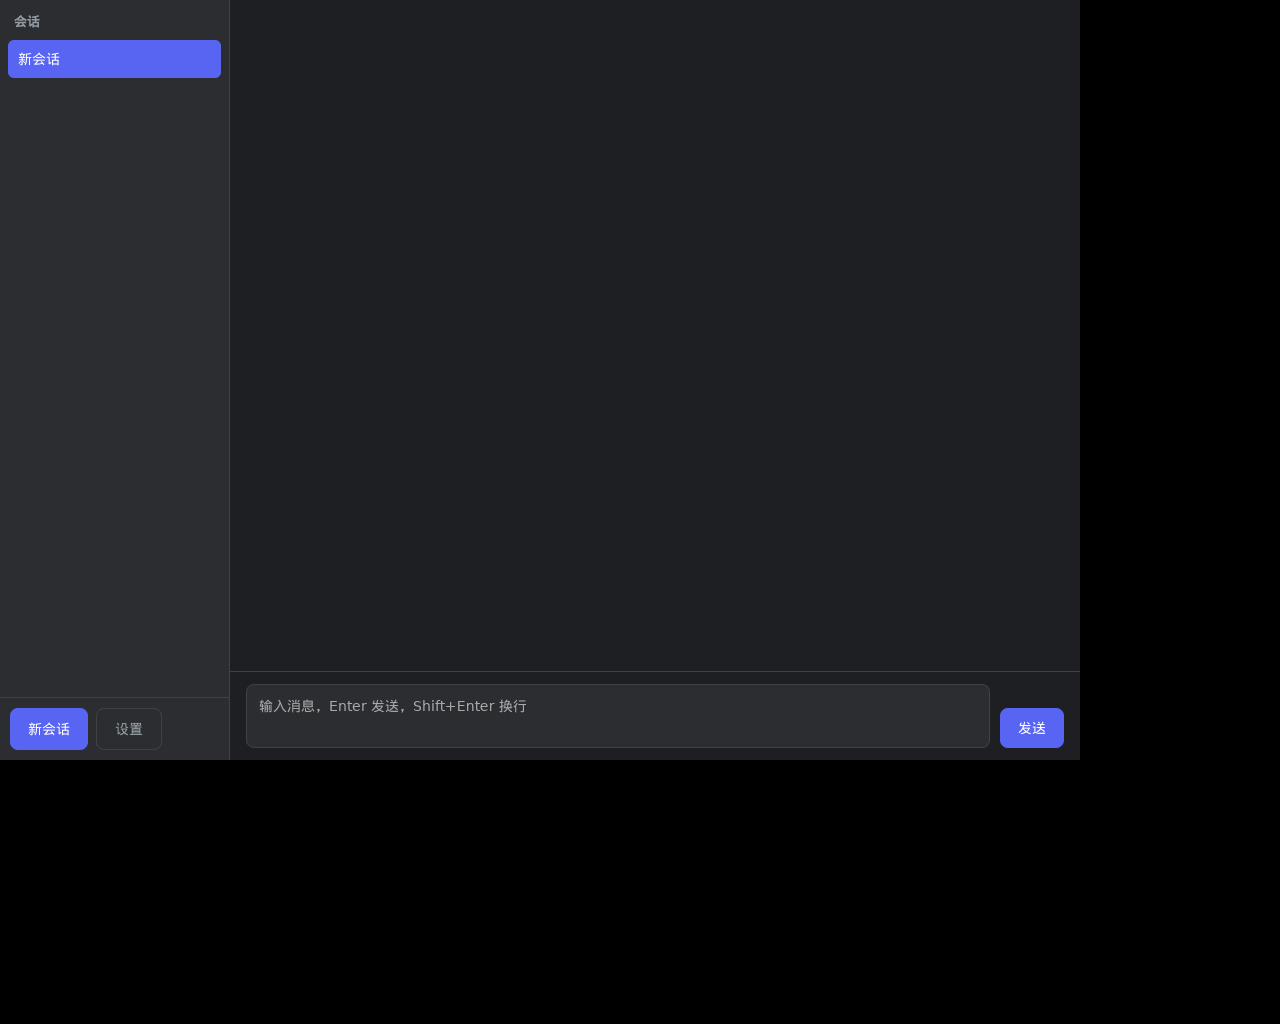
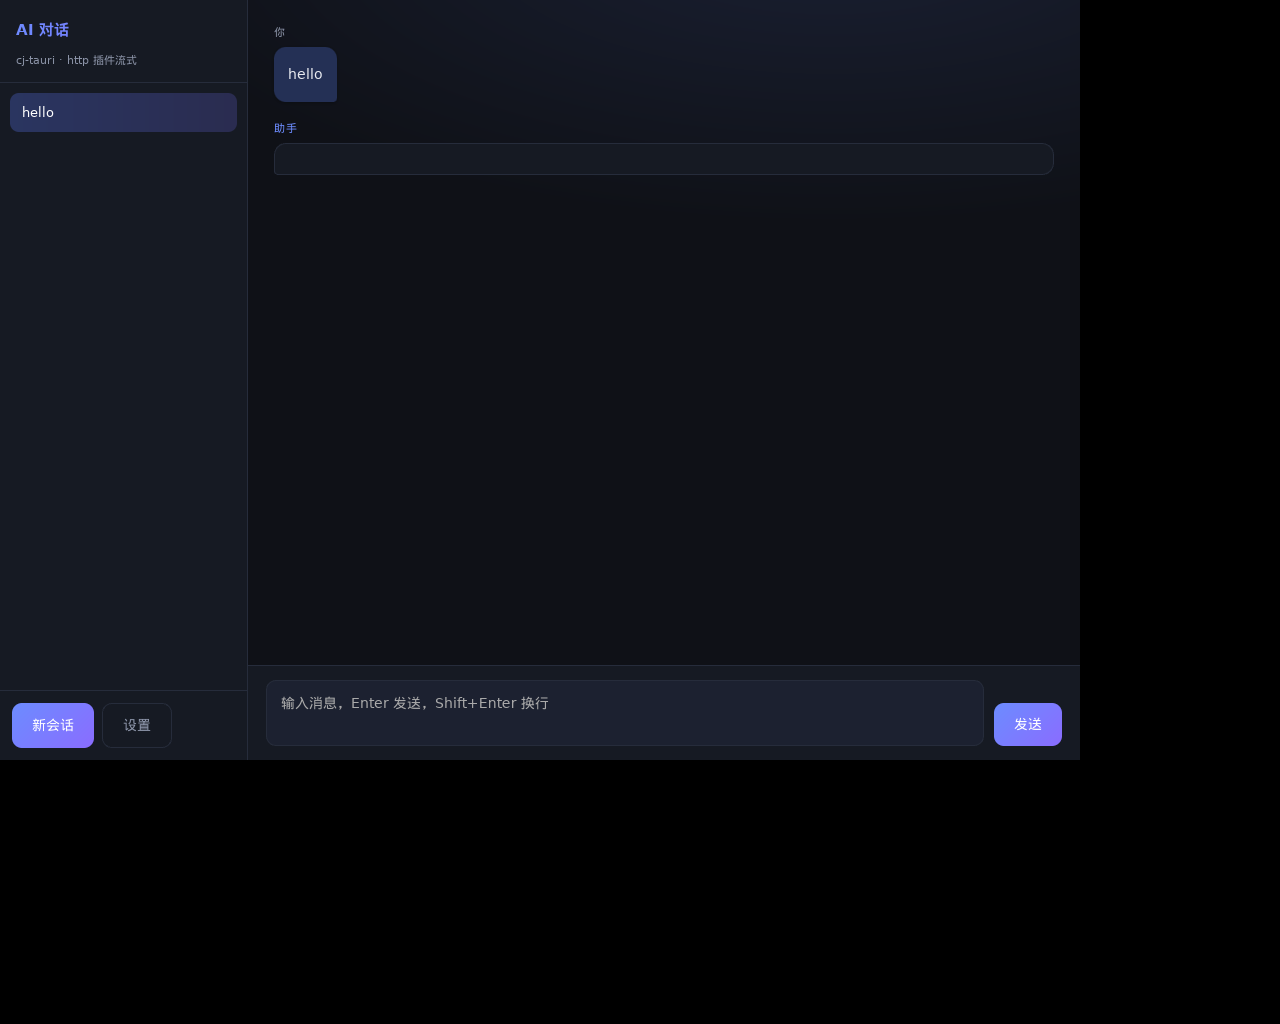
fix: make chat failures visible and stream every chunk
Two defects surfaced when a user pointed the example at a real provider:

- The default DeepSeek endpoint carried a wrong /v1 prefix, and a saved
  base URL pointing at a non-chat endpoint produced an HTTP 404 with no
  SSE data lines - the UI showed an empty reply and nothing else, the
  most expensive failure shape. Empty stream responses now render an
  explicit error bubble with the status, byte count, and the likely fix.
- postStream used emitLatest for http:chunk, which keeps only the newest
  event per frame: intermediate deltas were dropped (chunk counts flapped
  between runs, streamed text lost characters). Stream chunks now use
  emit so every delta arrives.

Also: page self-check gains a real streaming probe (postStream with the
configured key, counting arrived chunks) and counts only assertions in
its x/y summary; UI restyle (brand header, chat bubbles, gradient
buttons, welcome screen); default endpoint corrected to
https://api.deepseek.com/chat/completions.

Verified live on Linux (Xvfb): self-check 9/9 twice in a row, chunks
arriving every time; screenshot updated.

diff --git a/examples/ai-chat/ui/index.html b/examples/ai-chat/ui/index.html
@@ -4,61 +4,98 @@
 <meta charset="UTF-8">
 <title>AI 对话</title>
 <style>
-  :root { --bg:#1e1f22; --panel:#2b2d31; --line:#3f4147; --fg:#e3e5e8; --dim:#949ba4; --acc:#5865f2; }
+  :root {
+    --bg:#0f1117; --panel:#161a23; --panel2:#1c2130; --line:#262c3b;
+    --fg:#e8eaf0; --dim:#8b93a7; --acc:#6c8cff; --acc2:#8a6cff;
+    --user:#243055; --radius:12px;
+  }
   * { margin:0; padding:0; box-sizing:border-box; }
-  body { display:flex; height:100vh; background:var(--bg); color:var(--fg);
-         font:14px/1.6 system-ui,"Segoe UI","Microsoft YaHei",sans-serif; }
-  /* ---- 左栏：会话列表 ---- */
-  #side { width:230px; background:var(--panel); display:flex; flex-direction:column; border-right:1px solid var(--line); flex:0 0 auto; }
-  #side h1 { font-size:13px; padding:12px 14px 8px; color:var(--dim); font-weight:600; }
-  #convList { flex:1 1 auto; overflow-y:auto; padding:0 8px; }
-  .conv { padding:8px 10px; border-radius:6px; cursor:pointer; margin-bottom:2px;
+  html { color-scheme: dark; }
+  body { display:flex; height:100vh; overflow:hidden; background:var(--bg); color:var(--fg);
+         font:14px/1.65 "Segoe UI","PingFang SC","Microsoft YaHei",system-ui,sans-serif; }
+  ::-webkit-scrollbar { width:8px; }
+  ::-webkit-scrollbar-thumb { background:#2c3345; border-radius:4px; }
+  ::-webkit-scrollbar-thumb:hover { background:#3a4258; }
+  /* ---- 左栏 ---- */
+  #side { width:248px; background:var(--panel); display:flex; flex-direction:column;
+          border-right:1px solid var(--line); flex:0 0 auto; }
+  #side .brand { padding:18px 16px 10px; font-size:15px; font-weight:700;
+                 background:linear-gradient(90deg,var(--acc),var(--acc2));
+                 -webkit-background-clip:text; background-clip:text; color:transparent; }
+  #side .sub { padding:0 16px 12px; font-size:11px; color:var(--dim); border-bottom:1px solid var(--line); }
+  #convList { flex:1 1 auto; overflow-y:auto; padding:10px; }
+  .conv { padding:9px 12px; border-radius:9px; cursor:pointer; margin-bottom:3px; font-size:13px;
+          color:var(--dim); transition:background .12s,color .12s;
           white-space:nowrap; overflow:hidden; text-overflow:ellipsis; }
-  .conv:hover { background:#35373c; }
-  .conv.active { background:var(--acc); color:#fff; }
-  .conv .del { float:right; opacity:0; padding:0 4px; }
-  .conv:hover .del { opacity:.7; }
-  #sideBtns { padding:10px; border-top:1px solid var(--line); display:flex; gap:8px; }
+  .conv:hover { background:var(--panel2); color:var(--fg); }
+  .conv.active { background:linear-gradient(90deg,#2a3560,#2a2c50); color:#fff; font-weight:500; }
+  .conv .del { float:right; opacity:0; padding:0 4px; transition:opacity .12s; }
+  .conv:hover .del { opacity:.65; }
+  .conv .del:hover { opacity:1; color:#ff7b72; }
+  #sideBtns { padding:12px; border-top:1px solid var(--line); display:flex; gap:8px; }
   /* ---- 主栏 ---- */
-  #main { flex:1 1 auto; min-width:0; display:flex; flex-direction:column; }
-  #msgs { flex:1 1 auto; overflow-y:auto; padding:18px 22px; }
-  .msg { margin-bottom:14px; max-width:860px; }
-  .msg .who { font-size:12px; color:var(--dim); margin-bottom:3px; }
-  .msg .body { white-space:pre-wrap; }
-  .msg.user .body { background:var(--panel); display:inline-block; padding:8px 12px; border-radius:8px; }
+  #main { flex:1 1 auto; min-width:0; display:flex; flex-direction:column;
+          background:radial-gradient(1200px 500px at 70% -10%, #1a2033 0%, var(--bg) 60%); }
+  #msgs { flex:1 1 auto; overflow-y:auto; padding:24px 26px; }
+  .msg { margin-bottom:18px; max-width:820px; }
+  .msg .who { font-size:11px; letter-spacing:.08em; color:var(--dim); margin-bottom:5px;
+              text-transform:uppercase; }
+  .msg.assistant .who { color:var(--acc); }
+  .msg .body { white-space:pre-wrap; word-break:break-word; }
+  .msg.user .body { background:var(--user); display:inline-block; padding:10px 14px;
+                    border-radius:var(--radius); border-bottom-right-radius:4px;
+                    box-shadow:0 1px 4px rgba(0,0,0,.3); }
+  .msg.assistant .body { background:var(--panel); padding:12px 16px; border-radius:var(--radius);
+                         border-bottom-left-radius:4px; border:1px solid var(--line); }
   .msg.assistant .body .cursor { display:inline-block; width:8px; height:15px;
-        background:var(--fg); vertical-align:-2px; animation:blink .8s step-end infinite; }
+        background:var(--acc); vertical-align:-2px; animation:blink .8s step-end infinite; }
   @keyframes blink { 50% { opacity:0; } }
   .msg .body p { margin:6px 0; }
-  .msg .body pre { background:#16171a; padding:10px 12px; border-radius:6px; overflow-x:auto; margin:8px 0; }
-  .msg .body code { font-family:Consolas,Menlo,monospace; font-size:13px; }
-  .msg .body p code, .msg .body li code { background:#16171a; padding:1px 5px; border-radius:4px; }
-  #typing { color:var(--dim); font-size:13px; padding:6px 0; display:none; }
+  .msg .body pre { background:#0c0e14; padding:12px 14px; border-radius:8px; overflow-x:auto;
+                   margin:10px 0; border:1px solid var(--line); }
+  .msg .body code { font-family:"Cascadia Code",Consolas,Menlo,monospace; font-size:12.5px; }
+  .msg .body p code, .msg .body li code { background:#0c0e14; padding:1px 6px; border-radius:4px;
+                                          border:1px solid var(--line); }
+  .msg .body a { color:var(--acc); text-decoration:none; }
+  .msg .body a:hover { text-decoration:underline; }
+  .msg .body strong { color:#fff; }
+  #typing { color:var(--dim); font-size:12px; padding:4px 26px 8px; display:none; }
   /* ---- 输入区 ---- */
-  #inputBar { border-top:1px solid var(--line); padding:12px 16px; display:flex; gap:10px; align-items:flex-end; flex:0 0 auto; }
-  #input { flex:1 1 auto; min-width:0; background:var(--panel); border:1px solid var(--line); color:var(--fg);
-           border-radius:8px; padding:10px 12px; font:inherit; resize:none; height:64px; }
-  #input:focus { outline:none; border-color:var(--acc); }
-  button { background:var(--acc); color:#fff; border:0; border-radius:8px; padding:9px 18px;
-           font:inherit; cursor:pointer; flex:0 0 auto; }
-  button:disabled { opacity:.45; cursor:default; }
+  #inputBar { border-top:1px solid var(--line); padding:14px 18px; display:flex; gap:10px;
+              align-items:flex-end; flex:0 0 auto; background:var(--panel); }
+  #input { flex:1 1 auto; min-width:0; background:var(--panel2); border:1px solid var(--line);
+           color:var(--fg); border-radius:10px; padding:11px 14px; font:inherit; resize:none;
+           height:66px; transition:border-color .15s; }
+  #input:focus { outline:none; border-color:var(--acc);
+                 box-shadow:0 0 0 3px rgba(108,140,255,.15); }
+  button { background:linear-gradient(135deg,var(--acc),var(--acc2)); color:#fff; border:0;
+           border-radius:10px; padding:10px 20px; font:inherit; font-weight:500; cursor:pointer;
+           flex:0 0 auto; transition:filter .12s,transform .05s; }
+  button:hover { filter:brightness(1.12); }
+  button:active { transform:scale(.97); }
+  button:disabled { opacity:.4; cursor:default; filter:none; }
   button.ghost { background:transparent; border:1px solid var(--line); color:var(--dim); }
+  button.ghost:hover { color:var(--fg); border-color:var(--dim); }
   /* ---- 设置弹层 ---- */
-  #mask { position:fixed; inset:0; background:rgba(0,0,0,.55); display:none;
-          align-items:center; justify-content:center; }
+  #mask { position:fixed; inset:0; background:rgba(5,7,12,.6); backdrop-filter:blur(3px);
+          display:none; align-items:center; justify-content:center; }
   #mask.show { display:flex; }
-  #cfg { background:var(--panel); border-radius:10px; padding:20px 22px; width:520px; max-height:86vh; overflow-y:auto; }
-  #cfg h2 { font-size:15px; margin-bottom:12px; }
-  .row { margin-bottom:10px; }
-  .row label { display:block; font-size:12px; color:var(--dim); margin-bottom:4px; }
-  .row input, .row select { width:100%; background:var(--bg); border:1px solid var(--line); color:var(--fg);
-           border-radius:6px; padding:8px 10px; font:inherit; }
-  .hint { font-size:12px; color:var(--dim); margin:8px 0; }
+  #cfg { background:var(--panel); border:1px solid var(--line); border-radius:14px;
+         padding:24px 26px; width:540px; max-height:86vh; overflow-y:auto;
+         box-shadow:0 20px 60px rgba(0,0,0,.5); }
+  #cfg h2 { font-size:16px; margin-bottom:6px; }
+  .row { margin-bottom:12px; }
+  .row label { display:block; font-size:12px; color:var(--dim); margin-bottom:5px; }
+  .row input { width:100%; background:var(--bg); border:1px solid var(--line); color:var(--fg);
+           border-radius:8px; padding:9px 12px; font:inherit; transition:border-color .15s; }
+  .row input:focus { outline:none; border-color:var(--acc); }
+  .hint { font-size:12px; color:var(--dim); margin:10px 0; }
 </style>
 </head>
 <body>
   <div id="side">
-    <h1>会话</h1>
+    <div class="brand">AI 对话</div>
+    <div class="sub">cj-tauri · http 插件流式</div>
     <div id="convList"></div>
     <div id="sideBtns">
       <button id="btnNew">新会话</button>
@@ -140,7 +177,7 @@ function renderMd(src) {
 }
 
 /* ---- 状态 ---- */
-var cfg = { base: 'https://api.deepseek.com/v1/chat/completions', key: '', model: 'deepseek-chat', sys: '' };
+var cfg = { base: 'https://api.deepseek.com/chat/completions', key: '', model: 'deepseek-chat', sys: '' };
 var convs = [];            // [{id,title,messages:[{role,content}]}]
 var curId = null;
 var streaming = false;
@@ -204,6 +241,19 @@ function renderMsgs() {
   var c = cur();
   msgsEl.innerHTML = '';
   if (!c) { return; }
+  if (c.messages.length === 0) {
+    // 空会话欢迎页：给新用户一个明确的起点（也顺便展示能力面）
+    var w = document.createElement('div');
+    w.style.cssText = 'margin:120px auto 0;text-align:center;color:var(--dim);max-width:460px';
+    w.innerHTML = '<div style="font-size:34px;font-weight:700;margin-bottom:10px;' +
+      'background:linear-gradient(90deg,var(--acc),var(--acc2));' +
+      '-webkit-background-clip:text;background-clip:text;color:transparent">AI 对话</div>' +
+      '<div style="line-height:2">在下面输入框开始提问，Enter 发送。<br>' +
+      '流式回复 · Markdown 渲染 · 多会话 · 本地保存<br>' +
+      '第一次使用请先点左下角「设置」填 API Key</div>';
+    msgsEl.appendChild(w);
+    return;
+  }
   c.messages.forEach(function (m) { appendMsgEl(m.role, m.content); });
   msgsEl.scrollTop = msgsEl.scrollHeight;
 }
@@ -255,13 +305,18 @@ function send() {
   var acc = '';
   streaming = true; abortFlag = false;
   setStreamingUi(true);
+  // 诊断：每一步都留痕（AGENTS §4「看不见的失败最贵」——没反应时日志必须能说清断在哪）
+  var trace = function (m) { try { window.__CJ_TAURI__.log.write('[aichat] ' + m); } catch (e) {} };
+  var nChunk = 0;
 
   // 事件监听先于 invoke 挂上（命令发出后块可能立刻到达）
   var off = window.__CJ_TAURI__.listen('http:chunk', function (p) {
     if (p.done) { return; }            // 收尾用命令 resolve 对账，避免事件与 resolve 竞争
+    nChunk++;
     acc += p.delta || '';
     setBody(body, acc, true);
   });
+  trace('send: invoke postStream, listen on http:chunk');
 
   var payload = JSON.stringify({ model: cfg.model, messages: buildMessages(text), stream: true });
   window.__CJ_TAURI__.invoke('http:postStream', {
@@ -272,6 +327,17 @@ function send() {
     off();
     // SSE 帧 → 纯文本（宿主只回投字节，帧解析在前端：data: 行取 JSON，拼 delta，[DONE] 收）
     var full = sseToText(acc);
+    // **错误必须可见**：一条 data: 行都没有 ≠ 空回复——多半是 Base URL 不对（打到非
+    // chat/completions 端点，HTTP 404/HTML 都算），或服务端回了非流式错误体。
+    // 静默空白是最贵的失败形状（实测踩过：根路径 404，界面一点反应都没有）。
+    if (full === '') {
+      var hint = '没有收到任何流式内容（HTTP ' + (stat && stat.status ? stat.status : '?') +
+        '，共 ' + (stat && stat.received ? stat.received : 0) + ' 字节）。' +
+        '最常见原因：Base URL 不是完整的 chat/completions 端点' +
+        '（DeepSeek 应为 https://api.deepseek.com/chat/completions，不带 /v1）。';
+      if (acc && acc.indexOf('<') === 0) { hint += ' 服务端返回的是 HTML 页面而非 SSE 流。'; }
+      full = '**[错误]** ' + hint;
+    }
     c.messages.push({ role: 'assistant', content: full });
     setBody(body, full, false);
     if (stat && stat.truncated) { appendNote('（回复过长被截断）'); }
@@ -377,9 +443,35 @@ function selfcheck() {
     return r;
   });
   p.then(function () {
-    window.__CJ_TAURI__.invoke('log:write', { line: '[aichat] SELFCHECK ' + r.filter(function (x) { return x.indexOf('PASS') === 0; }).length + '/' + r.length }).catch(function () {});
-    r.forEach(function (x) { window.__CJ_TAURI__.invoke('log:write', { line: '[aichat] ' + x }).catch(function () {}); });
-    document.title = 'SELFCHECK ' + r.filter(function (x) { return x.indexOf('PASS') === 0; }).length + '/' + r.length;
+    // 有 Key 时再补一条**真流式**探针：postStream 实发一条小消息，数 chunk 到达数
+    // （链路真正的端到端验证——上面那条只证明非流式 POST 可达）
+    var done4 = function (extra) {
+      r = r.concat(extra);
+      // 分母只数断言（PASS/FAIL）；INFO 是诊断行，不是断言——算进去永远差 1/10（实测踩过）
+      var asserts = r.filter(function (x) { return x.indexOf('INFO') !== 0; });
+      var pass = asserts.filter(function (x) { return x.indexOf('PASS') === 0; }).length;
+      window.__CJ_TAURI__.invoke('log:write', { line: '[aichat] SELFCHECK ' + pass + '/' + asserts.length }).catch(function () {});
+      r.forEach(function (x) { window.__CJ_TAURI__.invoke('log:write', { line: '[aichat] ' + x }).catch(function () {}); });
+      document.title = 'SELFCHECK ' + pass + '/' + asserts.length;
+    };
+    if (!cfg.key) { done4([]); return; }
+    var chunks = 0;
+    var off2 = window.__CJ_TAURI__.listen('http:chunk', function (p) { if (!p.done) { chunks++; } });
+    window.__CJ_TAURI__.invoke('http:postStream', {
+      url: cfg.base,
+      body: JSON.stringify({ model: cfg.model, messages: [{ role: 'user', content: 'reply with exactly: OK' }], stream: true, max_tokens: 8 }),
+      headers: { 'Content-Type': 'application/json', 'Authorization': 'Bearer ' + cfg.key }
+    }).then(function (stat) {
+      off2();
+      ok('postStream-chunks', chunks > 0);
+      r.push('INFO postStream received=' + (stat && stat.received) + ' chunks=' + chunks);
+      done4([]);
+    }).catch(function (e) {
+      off2();
+      ok('postStream-chunks', false);
+      r.push('FAIL postStream: ' + (e && e.message));
+      done4([]);
+    });
   });
 }
 
